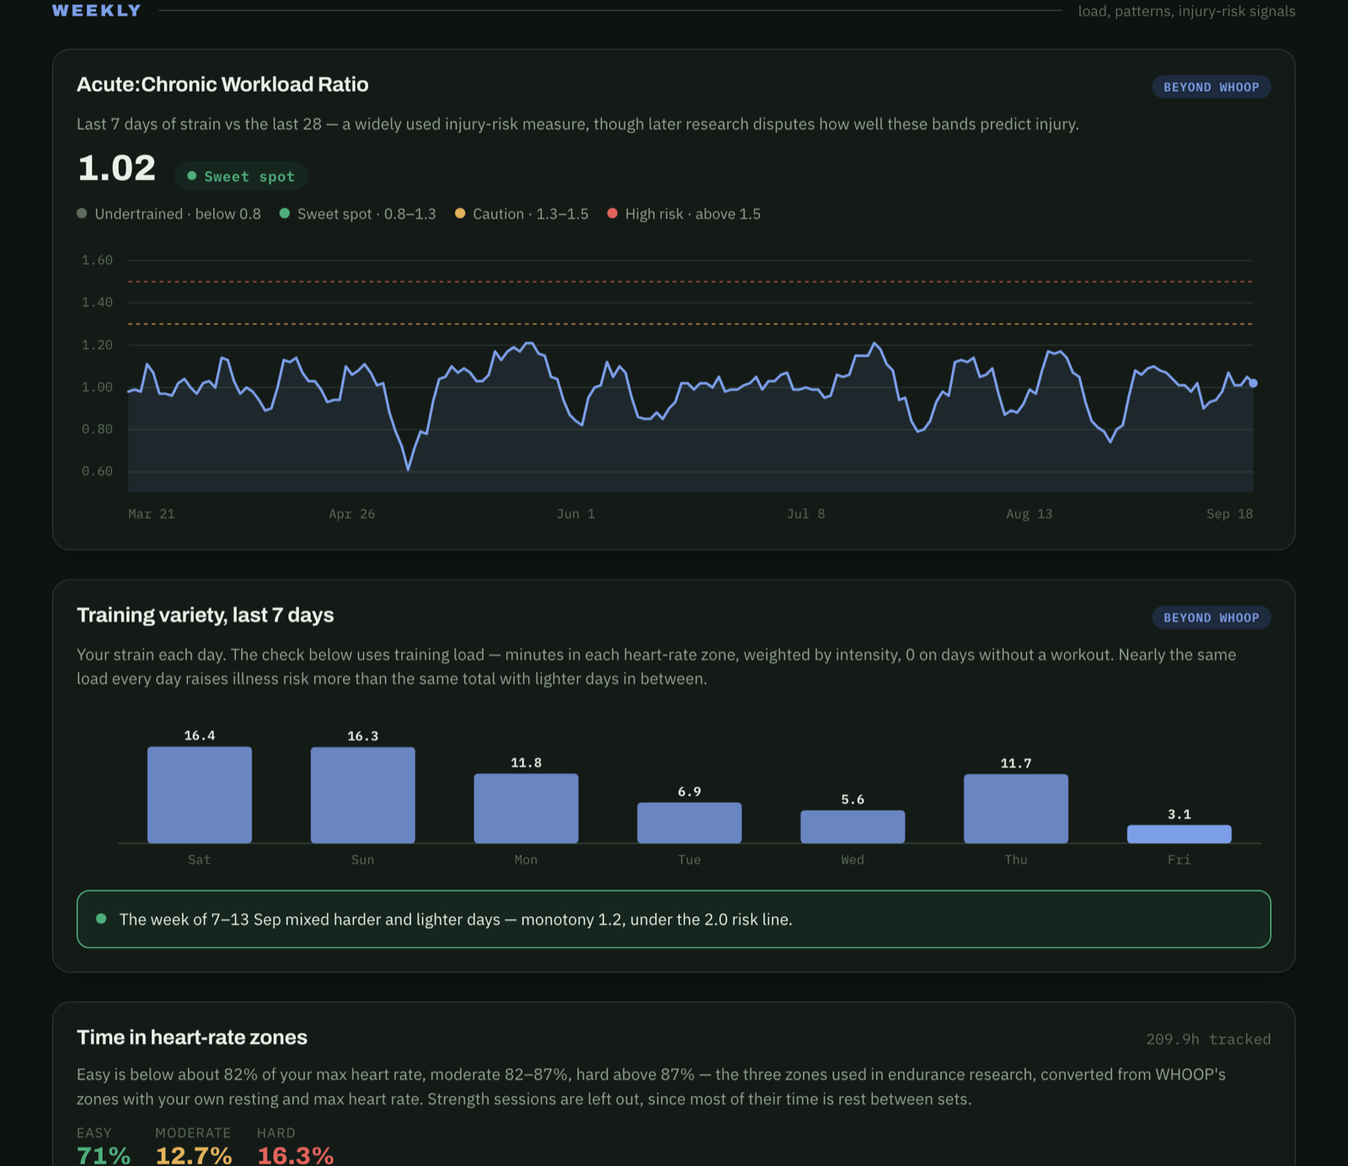
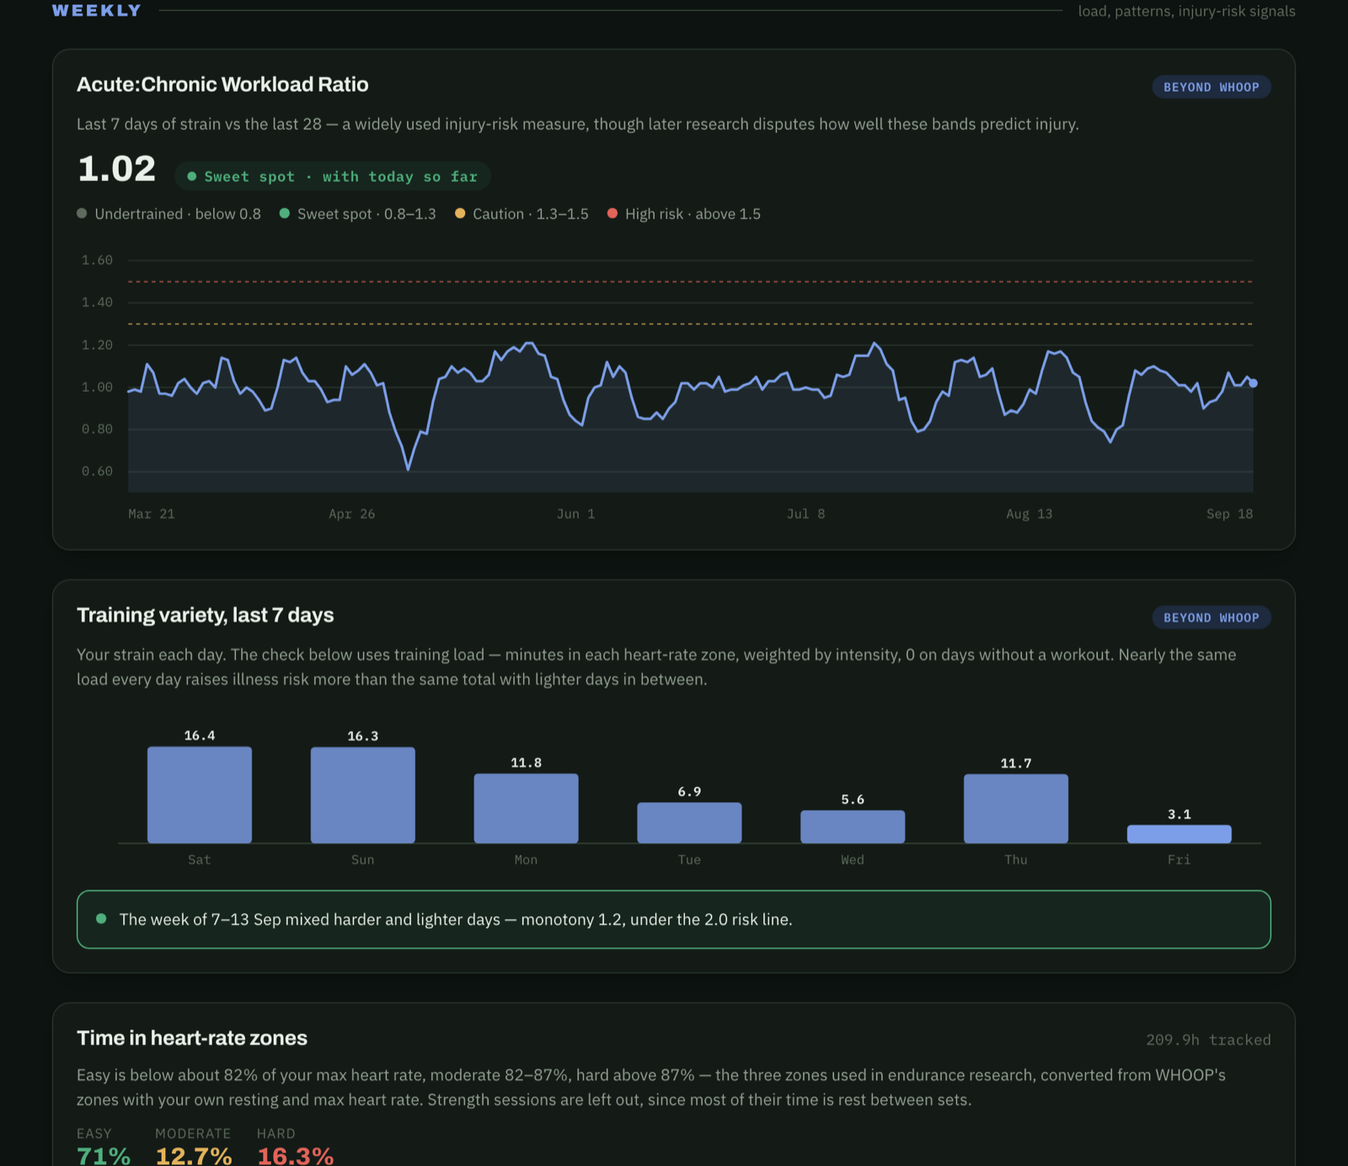
Let today's strain move the plan, and treat the WHOOP day as today
Every refresh already rebuilt everything, but the plan only reacted to a logged
workout. Strain from the rest of the day - walking, activity, anything that
isn't a session - changed the "Right now" number and nothing else.

Today's load ratio (build_load_today) is now recomputed with the strain so far
and fed into the plan. Before a session it steps down as the day climbs, using
the bands the load-ratio card already shows: past 1.3 no hard session (Train
hard becomes Train as planned), past 1.5 Go easy. The plan card says how much
room is left - "passes 1.3 if today's strain goes over 14.2" - which is the day
strain that puts the ratio exactly on the line, solved from the same 7- and
28-day averages, not a new threshold. After a session the ratio is reported
rather than used to rewrite what the morning plan was.

The load-ratio card's badge reads "with today so far" while the day is open,
and the panel gains a "load ratio - with today" row.

Also fixed:
- "Today" was the calendar date. WHOOP's day runs from one sleep to the next,
  so at 00:30, still awake, the page called the current day "last export, not
  today" and would have stopped counting that day's sessions. It now uses the
  open WHOOP cycle.
- After two sessions the card still said "a harder session is still within
  the plan". A second session always spends the day's one-session plan.

Readiness itself is measured overnight and does not move with daytime strain -
[…]

diff --git a/dashboard_template.html b/dashboard_template.html
@@ -620,6 +620,13 @@ const todayLocalISO = () => {
   const d = new Date();
   return `${d.getFullYear()}-${String(d.getMonth()+1).padStart(2,'0')}-${String(d.getDate()).padStart(2,'0')}`;
 };
+// WHOOP's day runs from one sleep to the next, not midnight to midnight: the latest cycle is today
+// while it is still open, even at 1am. A cycle that began more than 30 hours ago means the export is
+// old (WHOOP closes the day at the next sleep), so fall back to the calendar date.
+const WHOOP_DAY_MAX_H = 30;
+const snapIsCurrent = snap => !!snap && (snap.in_progress
+  ? (Date.now() - Date.parse(snap.cycle_start)) < WHOOP_DAY_MAX_H * 3600e3
+  : snap.date === todayLocalISO());
 const clamp = (n,a,b) => Math.max(a,Math.min(b,n));
 // Points from the last n calendar days of a {date, v} series (ending on its newest date) —
 // calendar days, not a count of records, so a gap in wear never stretches a "30D" window.
@@ -652,15 +659,41 @@ const MARKER_NAME = {hrv:'HRV', rhr:'resting HR', sleep:'sleep'};
 function computeReadiness(){
   const R = DATA.readiness;
   const snap = DATA.today_snapshot;
-  const snapIsToday = !!(snap && snap.date === todayLocalISO());
+  const snapIsToday = snapIsCurrent(snap);
   const sessions = snapIsToday ? (snap.workouts || []) : [];
-  if(!R) return { action:'learning', plan:'learning', reasons:[], sessions, R:null };
+  // today's load ratio, recomputed from the strain so far on every refresh
+  const load = (snapIsToday && DATA.load_today && DATA.load_today.date === snap.date) ? DATA.load_today : null;
+  if(!R) return { action:'learning', plan:'learning', reasons:[], sessions, load, R:null };
+  let plan = R.answer, reasons = [...R.reasons];
+  // As today's strain climbs, the load-ratio bands the card uses (Gabbett 2016) step the plan down:
+  // past the caution line no hard session, past the high-risk line go easy for the rest of the day.
+  // Only before a session: afterwards the strain is the session itself, the plan is spent, and the
+  // ratio is reported as information rather than rewriting what the morning plan was.
+  const trained = sessions.length > 0;
+  if(!trained && load && load.ratio > load.bands.high && (plan === 'hard' || plan === 'moderate')){
+    plan = 'easy'; reasons = ['load'];
+  } else if(!trained && load && load.ratio > load.bands.caution && plan === 'hard'){
+    plan = 'moderate'; reasons = ['load_caution'];
+  }
   // The score prescribes one session a day, the way the HRV-guided trials did. Once you have
   // trained, today's plan is spent — the answer stops asking for more (unless it says Rest,
   // which is about your body, not the plan).
-  const plan = R.answer, trained = sessions.length > 0;
   const action = (trained && plan !== 'rest') ? 'done' : plan;
-  return { action, plan, reasons:[...R.reasons], sessions, trained, R };
+  return { action, plan, reasons, sessions, trained, load, R };
+}
+
+// One sentence on where today's strain has left the load ratio and how much room is left.
+function loadText(calc){
+  const Ld = calc.load; if(!Ld || calc.reasons.includes('load') || calc.reasons.includes('load_caution')) return '';
+  const r = Ld.ratio.toFixed(2), B = Ld.bands, at = Ld.strain_at, s = Ld.strain.toFixed(1);
+  if(Ld.ratio > B.high)    return `Today's strain ${s} has taken your load ratio to ${r}, above ${B.high} — keep the rest of the day easy.`;
+  if(Ld.ratio > B.caution) return `Today's strain ${s} has taken your load ratio to ${r}, past the ${B.caution} caution line.`;
+  const training = calc.plan === 'hard' || calc.plan === 'moderate';
+  if(Ld.ratio < B.low) return training && at.low != null && at.low > Ld.strain && at.low < 21
+    ? `Load ratio ${r}, below ${B.low}: a day strain of ${at.low.toFixed(1)} brings it back into range.`
+    : `Load ratio ${r}, below ${B.low}.`;
+  if(at.caution == null || at.caution >= 21) return `Load ratio ${r}, in range — no strain today would take it past ${B.caution}.`;
+  return `Load ratio ${r}, in range — it passes ${B.caution} if today's strain goes over ${at.caution.toFixed(1)}.`;
 }
 
 const SESSION_RANK = {easy:1, strength:1, moderate:2, hard:3};
@@ -691,6 +724,8 @@ function reasonText(calc, key){
   }
   if(key === 'breathing') return `last night's breathing rate was ${one(R.breathing.value)} /min, 3 or more above your usual ${one(R.breathing.usual)} — a possible sign of illness`;
   if(key === 'streak') return `you've trained hard ${R.hard_days_in_a_row} days in a row (limit ${R.max_hard_days})`;
+  if(key === 'load_caution') return `today's strain of ${calc.load.strain.toFixed(1)} has taken your load ratio to ${calc.load.ratio.toFixed(2)}, past the ${calc.load.bands.caution} caution line — no hard session on top`;
+  if(key === 'load') return `today's strain of ${calc.load.strain.toFixed(1)} has taken your load ratio to ${calc.load.ratio.toFixed(2)}, above the ${calc.load.bands.high} high-risk line`;
   if(key === 'days_low') return `readiness has been below your normal ${R.days_below_normal} days in a row — a run of low days, not one low night, is what counts`;
   return '';
 }
@@ -715,7 +750,9 @@ function decisionWhy(calc){
   const why = calc.reasons.length ? listAnd(calc.reasons.map(k => reasonText(calc, k))) : scoreText(calc);
   if(calc.action !== 'done') return sentence(why);
   const done = sentence(`you've trained today — ${sessionsText(calc)}`);
-  const metPlan = (SESSION_RANK[hardestToday(calc).intensity || 'strength'] || 1) >= PLAN_RANK[calc.plan];
+  // one session a day is the plan; a second session always spends it, whatever its intensity
+  const metPlan = calc.sessions.length > 1 ||
+    (SESSION_RANK[hardestToday(calc).intensity || 'strength'] || 1) >= PLAN_RANK[calc.plan];
   return `${done} Today's plan was <b>${ACTIONS[calc.plan].label.toLowerCase()}</b> (${why})` +
          (metPlan ? ' — that’s done.' : ', so a harder session is still within it if you want one.');
 }
@@ -760,7 +797,8 @@ function renderSuggestions(calc){
   } else if(calc.action === 'done'){
     const level = hardestToday(calc).intensity;
     sEl.className = 'signal ok';
-    sTxt.innerHTML = `<b>You've trained today.</b> ` + (level === 'hard'
+    const n = calc.sessions.length;
+    sTxt.innerHTML = `<b>You've trained today${n > 1 ? ` — ${n} sessions` : ''}.</b> ` + (level === 'hard'
       ? 'Heart and nervous-system recovery takes about 48 hours after a high-intensity session, so keep tomorrow easy unless readiness says otherwise.'
       : level === 'moderate'
       ? 'Recovery from a moderate session takes about 24 hours — tomorrow’s score will show how you took it.'
@@ -771,12 +809,21 @@ function renderSuggestions(calc){
   } else if(calc.action === 'easy'){
     sEl.className = 'signal warn';
     sTxt.innerHTML = `<b>Keep today easy.</b> ${sentence(listAnd(calc.reasons.map(k => reasonText(calc, k))))}`;
+  } else if(calc.action === 'moderate' && calc.reasons.includes('load_caution')){
+    sEl.className = 'signal warn';
+    sTxt.innerHTML = `<b>Train as planned, not hard.</b> ${sentence(reasonText(calc, 'load_caution'))}`;
   } else if(calc.action === 'moderate'){
     sEl.className = 'signal ok';
     sTxt.innerHTML = `<b>Train the session you had planned.</b> Readiness ${calc.R.score} is inside your normal range (${calc.R.lines.train}–${calc.R.lines.above - 1}) — no reason to push harder or hold back.`;
   } else {
     sEl.className = 'signal ok';
     sTxt.innerHTML = `<b>A hard session is OK today.</b> Readiness ${calc.R.score} is above your normal (${calc.R.lines.above}+).`;
+  }
+  // the part that moves through the day: where today's strain has left the load ratio
+  const lt = calc.action === 'learning' ? '' : loadText(calc);
+  if(lt){
+    sTxt.innerHTML += ' ' + lt;
+    if(calc.load.ratio > calc.load.bands.caution) sEl.className = 'signal warn';
   }
 
   const tips = [];
@@ -877,7 +924,7 @@ function renderRightNow(){
     $('rightNowBody').innerHTML = '';
     return;
   }
-  const isToday = snap.date === todayLocalISO();
+  const isToday = snapIsCurrent(snap);
   $('rightNowDate').textContent = isToday ? fmtDate(snap.date) : `last export: ${fmtDate(snap.date)}`;
   $('rnStrainNum').textContent = fmt1(snap.strain_so_far);
   $('rnStrainLabel').textContent = isToday
@@ -1283,8 +1330,9 @@ function renderTodaySignals(){
 
   // yesterday's hardest session, and what usually follows a day of that intensity
   const sEl = $('sportCostSignal'), sTxt = $('sportCostText');
-  const asOfDay = DATA.asOf.slice(0,10);
-  const isExportToday = asOfDay === todayLocalISO();
+  const snapNow = snapIsCurrent(DATA.today_snapshot);
+  const asOfDay = snapNow ? DATA.today_snapshot.date : DATA.asOf.slice(0,10);
+  const isExportToday = snapNow || asOfDay === todayLocalISO();
   const yesterday = new Date(new Date(asOfDay).getTime() - 86400000).toISOString().slice(0,10);
   const dayLabel = isExportToday ? 'Yesterday' : new Date(yesterday+'T00:00:00').toLocaleDateString(undefined,{month:'short',day:'numeric'});
   const sessions = DATA.workout_log.filter(w => w.date === yesterday);
@@ -1337,7 +1385,10 @@ function renderACWR(){
   ];
   const zone = zones.find(z=>latest<z.max);
   const badge = $('acwrZone');
-  badge.textContent = zone.label;
+  // the newest point counts today's strain so far, so the ratio moves as the day does
+  const snap = DATA.today_snapshot;
+  const live = snapIsCurrent(snap) && snap.in_progress && series[series.length-1].date === snap.date;
+  badge.textContent = zone.label + (live ? ' · with today so far' : '');
   badge.style.color = zone.c;
   badge.style.background = zone.bg;
 
@@ -1679,6 +1730,7 @@ window.addEventListener('resize', ()=>{ renderExplorer(); renderStageChart(); re
       out.push(section('Also checked', 'today / limit'));
       if(R.breathing) out.push(row('Breathing rate', `${one(R.breathing.value)} /min`, `rest at ${one(R.breathing.limit)}+`, R.breathing.flagged ? 'flagged' : ''));
       out.push(row('Hard days in a row', `${R.hard_days_in_a_row}`, `limit ${R.max_hard_days}`, R.hard_days_in_a_row >= R.max_hard_days ? 'flagged' : ''));
+      if(calc.load) out.push(row('Load ratio · with today', calc.load.ratio.toFixed(2), `go easy above ${calc.load.bands.high}`, calc.load.ratio > calc.load.bands.caution ? 'flagged' : ''));
       out.push(row('Days below your normal', `${R.days_below_normal}`, `rest at ${R.days_low_to_rest}`, R.days_below_normal >= R.days_low_to_rest ? 'flagged' : ''));
       for(const w of calc.sessions)
         out.push(row(`Today · ${w.sport}`, w.intensity ? INTENSITY_WORD[w.intensity] : 'strength', `${w.dur_min} min`, 'current'));

diff --git a/tests/test_intensity_and_load.py b/tests/test_intensity_and_load.py
@@ -1,6 +1,6 @@
 """Seiler intensity zones from WHOOP heart-rate-reserve zones, Foster monotony, rest days, sleep
 nights and sport cost at the same intensity."""
-import unittest
+import json, unittest
 from datetime import date, datetime, timedelta, timezone
 from helpers import generate, build_dashboard as bd
 
@@ -147,3 +147,54 @@ class SportCostTest(unittest.TestCase):
 
 if __name__ == '__main__':
     unittest.main()
+
+
+class DayAdaptsTest(unittest.TestCase):
+    """What changes when the refresh button pulls new activity mid-day."""
+
+    def setUp(self):
+        self.raw = generate(120, 23)
+
+    def test_load_ratio_today_matches_the_card(self):
+        s = bd.build_summary(self.raw)
+        L = s['load_today']
+        self.assertEqual(L['date'], s['today_snapshot']['date'])
+        self.assertEqual(L['ratio'], s['acwr'][-1]['v'])
+        self.assertEqual(L['strain'], s['today_snapshot']['strain_so_far'])
+
+    def test_strain_lines_put_the_ratio_exactly_on_each_band(self):
+        """The 'passes 1.3 if today's strain goes over X' number is pure algebra on the band."""
+        s = bd.build_summary(self.raw)
+        today = s['load_today']['date']
+        strain = {p['date']: p['v'] for p in s['full_series']['strain']}
+        for band, r in bd.ACWR_BANDS.items():
+            x = s['load_today']['strain_at'][band]
+            if x is None or x in (0.0, 21.0):          # clamped: the line can't be reached today
+                continue
+            probe = dict(strain, **{today: x})
+            got = bd.build_load_today(probe, today)['ratio']
+            self.assertAlmostEqual(got, r, delta=0.011, msg=band)
+
+    def test_more_strain_today_raises_the_ratio(self):
+        s = bd.build_summary(self.raw)
+        today = s['load_today']['date']
+        strain = {p['date']: p['v'] for p in s['full_series']['strain']}
+        low = bd.build_load_today(dict(strain, **{today: 4.0}), today)['ratio']
+        high = bd.build_load_today(dict(strain, **{today: 18.0}), today)['ratio']
+        self.assertGreater(high, low)
+
+    def test_a_nap_today_moves_readiness(self):
+        """Readiness is measured overnight, but hours asleep count naps — a nap logged later in the
+        day changes today's score on the next refresh."""
+        before = bd.build_summary(self.raw)
+        today = before['readiness']['date']
+        night = [x for x in self.raw['sleep'] if not x['nap'] and bd.day(x['created_at']) == today][0]
+        end = bd.parse(night['end']) + timedelta(hours=7)
+        nap = json.loads(json.dumps(night))
+        nap.update({'id': 'nap-test', 'nap': True, 'start': (end - timedelta(hours=2)).isoformat(),
+                    'end': end.isoformat(), 'created_at': (end + timedelta(minutes=8)).isoformat()})
+        raw = dict(self.raw, sleep=self.raw['sleep'] + [nap])
+        after = bd.build_summary(raw)
+        self.assertEqual(after['readiness']['date'], today)
+        self.assertNotEqual(after['readiness']['score'], before['readiness']['score'])
+        self.assertGreater(after['last_night']['nap_h'], before['last_night']['nap_h'])

diff --git a/build_dashboard.py b/build_dashboard.py
@@ -101,6 +101,45 @@ def build_acwr(strain_by_day):
     return out
 
 
+# Load-ratio bands as used on the page: sweet spot 0.8–1.3, caution to 1.5, high risk above
+# (Gabbett 2016; disputed as an injury predictor — Impellizzeri et al. 2020 — and labelled so).
+ACWR_BANDS = {'low': 0.8, 'caution': 1.3, 'high': 1.5}
+
+
+def build_load_today(strain_by_day, today):
+    """Today's load ratio from the strain so far, and the day strain at which it would cross each
+    band line — so the plan can say how much room is left as the day's strain climbs.
+
+    The ratio includes today in both windows (as `build_acwr` does), so with A / C the strain summed
+    over the other days in the 7 / 28-day windows and a / c the day counts including today, the day
+    strain S that puts the ratio exactly at r solves (A + S) / a = r (C + S) / c:
+        S = (r C / c − A / a) / (1 / a − r / c)
+    Pure algebra on the band lines above — no new threshold. Strain is WHOOP's day strain (0–21),
+    averaged across days, never summed across sessions."""
+    days = sorted(strain_by_day)
+    if not days or days[-1] != today:
+        return None
+    i = len(days) - 1
+    acute = [strain_by_day[days[j]] for j in _calendar_window(days, i, 6)]
+    chronic = [strain_by_day[days[j]] for j in _calendar_window(days, i, 27)]
+    a, c = len(acute) + 1, len(chronic) + 1
+    if a < ACWR_MIN_DAYS['acute'] or c < ACWR_MIN_DAYS['chronic']:
+        return None
+    A, C, S = sum(acute), sum(chronic), strain_by_day[today]
+    if C + S == 0:
+        return None
+
+    def strain_at(r):
+        den = 1 / a - r / c
+        if den <= 0:
+            return None
+        return round(max(0.0, min(21.0, (r * C / c - A / a) / den)), 1)
+
+    return {'date': today, 'strain': round(S, 1), 'ratio': round(((A + S) / a) / ((C + S) / c), 2),
+            'bands': dict(ACWR_BANDS),
+            'strain_at': {k: strain_at(v) for k, v in ACWR_BANDS.items()}}
+
+
 # ---- Statistics helpers ----------------------------------------------------------------
 # A difference is only called real when it passes a two-sided Welch's t-test at p < 0.05, the
 # standard convention in sport-science and medical research. Groups need at least 30 values
@@ -801,6 +840,7 @@ def build_summary(d):
                             session_level(intensity_minutes(top['score'].get('zone_durations'), max_hr, rest_hr_for(dd))))
 
     acwr = build_acwr(strain_by_day)
+    load_today = build_load_today(strain_by_day, day(cyc[-1]['created_at']))
     monotony = build_monotony(load_by_day, strain_by_day.keys())
     sport_recovery_cost = build_sport_recovery_cost(day_sessions, recovery_by_day, {sport_label(w['sport_name']) for w in wo})
     sleep_composition = build_sleep_composition(sleep, now)
@@ -886,6 +926,7 @@ def build_summary(d):
         'records': records,
         'total_workouts': len(wo),
         'acwr': acwr,
+        'load_today': load_today,
         'monotony': monotony,
         'sport_recovery_cost': sport_recovery_cost,
         'sleep_composition': sleep_composition,

diff --git a/chat_server.py b/chat_server.py
@@ -86,7 +86,13 @@ intensity is where most of its time was; strength sessions have none.
 heart-rate zone minutes, 0 on days off), complete weeks only; above 2.0 is the risk line. WHOOP strain is \
 logarithmic and must never be added across sessions.
 - Load ratio (ACWR): last-7-days average strain ÷ last-28-days average; bands 0.8 / 1.3 / 1.5 are \
-widely used but disputed.
+widely used but disputed. The newest value includes today's strain so far, so it rises through the \
+day. dashboard_summaries.load_today gives today's ratio and strain_at = the day strain at which it \
+would cross each band (algebra on the band, not a new threshold). Before any session today the page \
+steps the plan down as it climbs: past 1.3 no hard session (Train hard becomes Train as planned), past \
+1.5 Go easy. After a session it is reported, not used to rewrite the plan.
+- "Today" is the current WHOOP day (from one sleep to the next, today_snapshot with in_progress), \
+not the calendar date - at 1am before sleeping they are still in the same WHOOP day.
 - Rest day ("last day off" on the page): the most recent finished day with NO workout logged. It is \
 not the last day they trained - their most recent workout is the newest row of the workouts table. \
 Read the card as "the last day they did nothing", never as "the last day they did something".

diff --git a/README.md b/README.md
@@ -208,6 +208,7 @@ anything, and it is not comparable between people.
 | Go easy or rest | Below the band the trials prescribe "low intensity exercise (or passive rest)". Rest when the fall is **large** (under 7, i.e. 1.5 SD below) or **sustained** — the **third day in a row** below your normal, because a run of low days, not one low night, is what these measures are read on. Never more than **2 rest days in a row**, the limit HRV-guided protocols put on consecutive rest days. Here that gives a rest day about once a week (14% of days) instead of once every 18 | "Low intensity exercise (or passive rest) … when values are suppressed": [Manresa-Rocamora et al., 2021](https://pmc.ncbi.nlm.nih.gov/articles/PMC8507742/); sustained rather than single-day changes: [Plews et al., 2013](https://pubmed.ncbi.nlm.nih.gov/23539308/), [Buchheit, 2014](https://www.frontiersin.org/journals/physiology/articles/10.3389/fphys.2014.00073/full); cap on consecutive rest days: Kiviniemi 2007 |
 | Illness sign | Breathing rate last night 3+ breaths/min above your usual (average of nights 30–90 days before, 30+ nights) → **Rest** | [Natarajan et al., 2021](https://pmc.ncbi.nlm.nih.gov/articles/PMC8443549/) |
 | Hard days in a row | After 2 moderate/high-intensity days in a row → **Go easy** | Carrasco-Poyatos 2020 |
+| Through the day | Every refresh recomputes the load ratio with today's strain so far. Before a session, the plan steps down as it climbs: past **1.3** no hard session (Train hard → Train as planned), past **1.5** Go easy. The card says how much strain is left before 1.3 ("passes 1.3 if today's strain goes over 14.2") — the day strain that puts the ratio exactly on the line, solved from the same 7- and 28-day averages. A nap changes readiness itself, because hours asleep count naps. "Today" is the current WHOOP day, from one sleep to the next | Load-ratio bands: [Gabbett, 2016](https://bjsm.bmj.com/content/50/5/273) — disputed as an injury predictor: [Impellizzeri et al., 2020](https://pubmed.ncbi.nlm.nih.gov/32502973/) |
 | Session today | The plan is **one session a day** — the trials read HRV each morning and set that day's session. Once you have trained, the card shows **Done for today** and whether what you did matched the plan; recovery takes ~24 h after a low or moderate session and ~48 h after a hard one | Daily prescription: Kiviniemi 2007, Vesterinen 2016, Javaloyes 2019; recovery time: [Stanley, Peake & Buchheit, 2013](https://link.springer.com/article/10.1007/s40279-013-0083-4) |
 
 Last night counts for half the score and the last 7 days for the other half, so a strong night lifts

diff --git a/CLAUDE.md b/CLAUDE.md
@@ -55,7 +55,8 @@ python3 scripts/privacy_scan.py [--staged]          # must be clean before any p
   (<7) or sustained — 3rd day in a row below the band (`DAYS_LOW_TO_REST`), never 3 rest days in a row
   (`MAX_REST_DAYS_IN_A_ROW`; Manresa-Rocamora 2021 "low intensity or passive rest"; Plews 2013/Buchheit 2014
   sustained not single-day; Kiviniemi 2007 caps consecutive rest days). Rest on breathing +3/min; Go easy after 2 hard days in a row. Once any session is
-  logged today the page shows "Done for today" (plan spent) unless the plan was Rest. Last night is information only. JP wants ONE score from all
+  logged today the page shows "Done for today" (plan spent) unless the plan was Rest. Before a session, today's
+  live load ratio (`build_load_today`, strain so far) steps the plan down: >1.3 hard→as planned, >1.5 → Go easy. Last night is information only. JP wants ONE score from all
   measures AND every rule sourced — keep both.
 - **Intensity** = Seiler zones (82% / 87% of max HR) converted from WHOOP heart-rate-reserve zones
   (`intensity_minutes`, proportional split); session level = where most time was. Strength sessions: none.
@@ -80,6 +81,8 @@ python3 scripts/privacy_scan.py [--staged]          # must be clean before any p
 - WKWebView blocks `fetch()` of `file://` → the page gets fresh data from `GET /data`.
 - macOS ATS blocks `http://127.0.0.1` without `NSAllowsLocalNetworking` in Info.plist ("Load failed").
 - Don't step `Date` objects day-by-day across DST (hour drift); compare `YYYY-MM-DD` strings.
+- "Today" on the page = the open WHOOP cycle (`snapIsCurrent`), not the calendar date — WHOOP's day runs
+  sleep to sleep, so at 1am the previous day is still in progress. Don't compare `snap.date` to the clock.
 - Dashboard dates = UTC calendar day of `created_at`; `ai_context.py` matches that convention.
 - Heatmap/month labels collide on partial months — drop the older label when < 3 cells apart.
 - WHOOP `sleep_performance_percentage` = hours vs needed only until ~Oct 2025; after that it's WHOOP's blended
